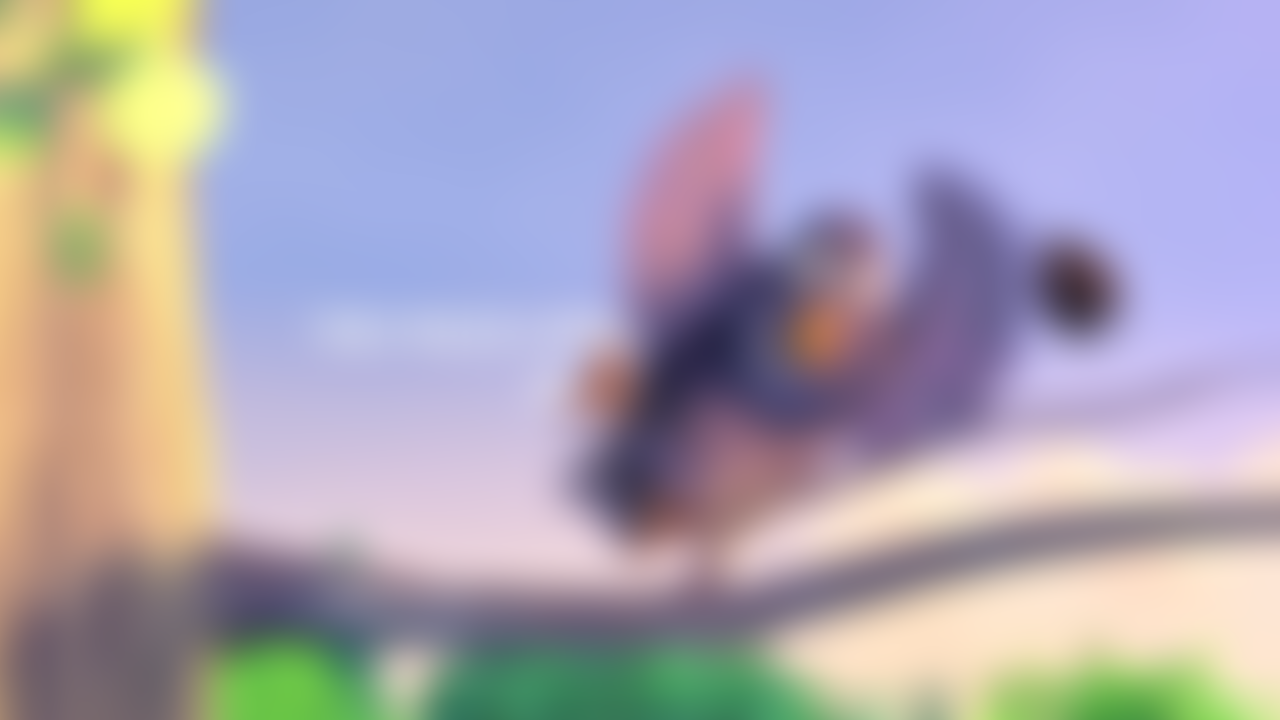
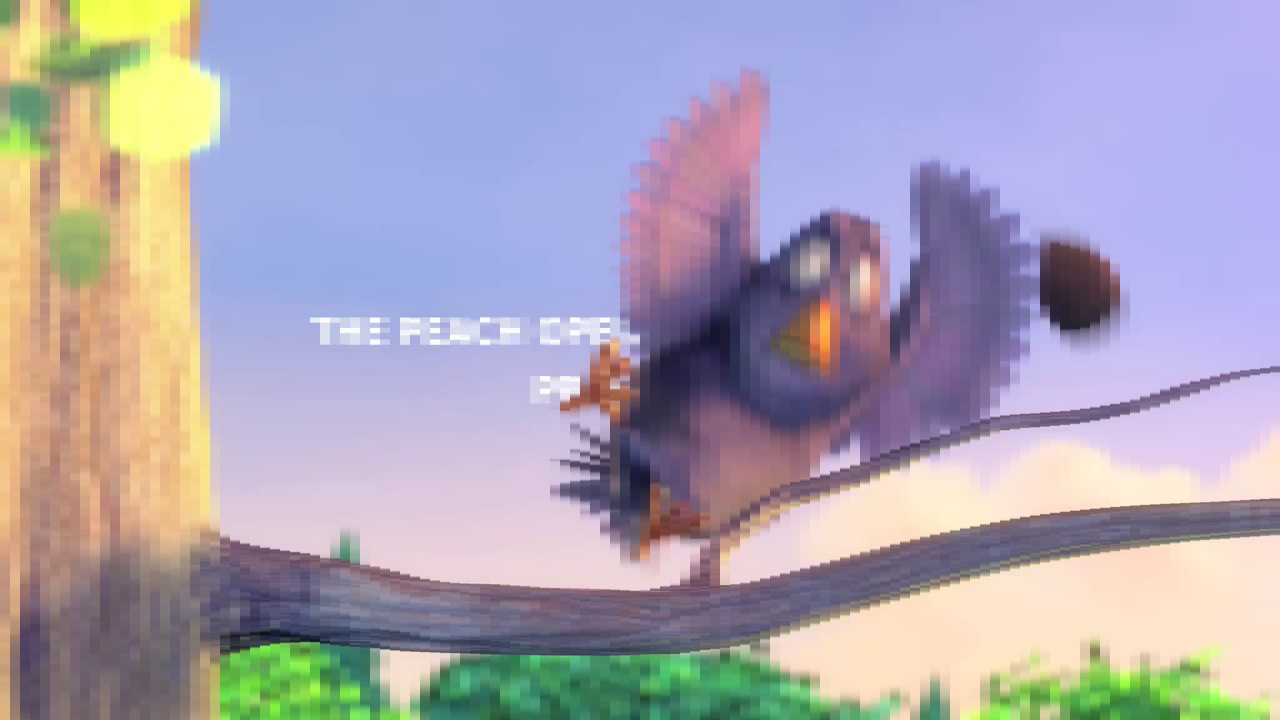
pixelate function works now

diff --git a/src/main.rs b/src/main.rs
@@ -1,4 +1,5 @@
-use image::{GenericImageView, ImageReader};
+use image::Rgba;
+use image::{GenericImageView, ImageBuffer, ImageReader};
 
 fn main() {
     let args = std::env::args().collect::<Vec<_>>();
@@ -14,7 +15,47 @@ fn main() {
 
     let img = ImageReader::open(img_path).unwrap().decode().unwrap();
 
-    let matrix = img.pixels().map(|p| p.2).collect::<Vec<_>>();
+    let (img_x, img_y) = img.dimensions();
 
-    //new_img.save(op_img_name).expect("can't. sorry.");
+    let mut matrix: Vec<Rgba<u8>> = img.pixels().map(|p| p.2).collect();
+    //dbg!(matrix);
+
+    pixelate(&mut matrix);
+
+    let fin_img = ImageBuffer::from_fn(img_x, img_y, |x, y| {
+        matrix[(y * img_x + x) as usize] // Access the corresponding pixel
+    });
+
+    fin_img.save(op_img_name).expect("Error saving the image");
+}
+
+fn pixelate(matrix: &mut Vec<Rgba<u8>>) {
+    let mut i = 0;
+    let pix = 10;
+
+    while i < matrix.len() {
+        // dbg!(i);
+        let mut j = 0;
+        let mut clrs = vec![];
+
+        while j < pix {
+            if i + j >= matrix.len() {
+                break;
+            }
+            clrs.push(matrix[i + j]);
+            j += 1;
+        }
+
+        let avg_red = (clrs.iter().map(|c| c.0[0] as u32).sum::<u32>() / clrs.len() as u32) as u8;
+        let avg_green = (clrs.iter().map(|c| c.0[1] as u32).sum::<u32>() / clrs.len() as u32) as u8;
+        let avg_blue = (clrs.iter().map(|c| c.0[2] as u32).sum::<u32>() / clrs.len() as u32) as u8;
+
+        let clr = Rgba([avg_red, avg_green, avg_blue, 255]);
+
+        for k in i..i + pix {
+            matrix[k] = clr;
+        }
+
+        i = j + i;
+    }
 }
